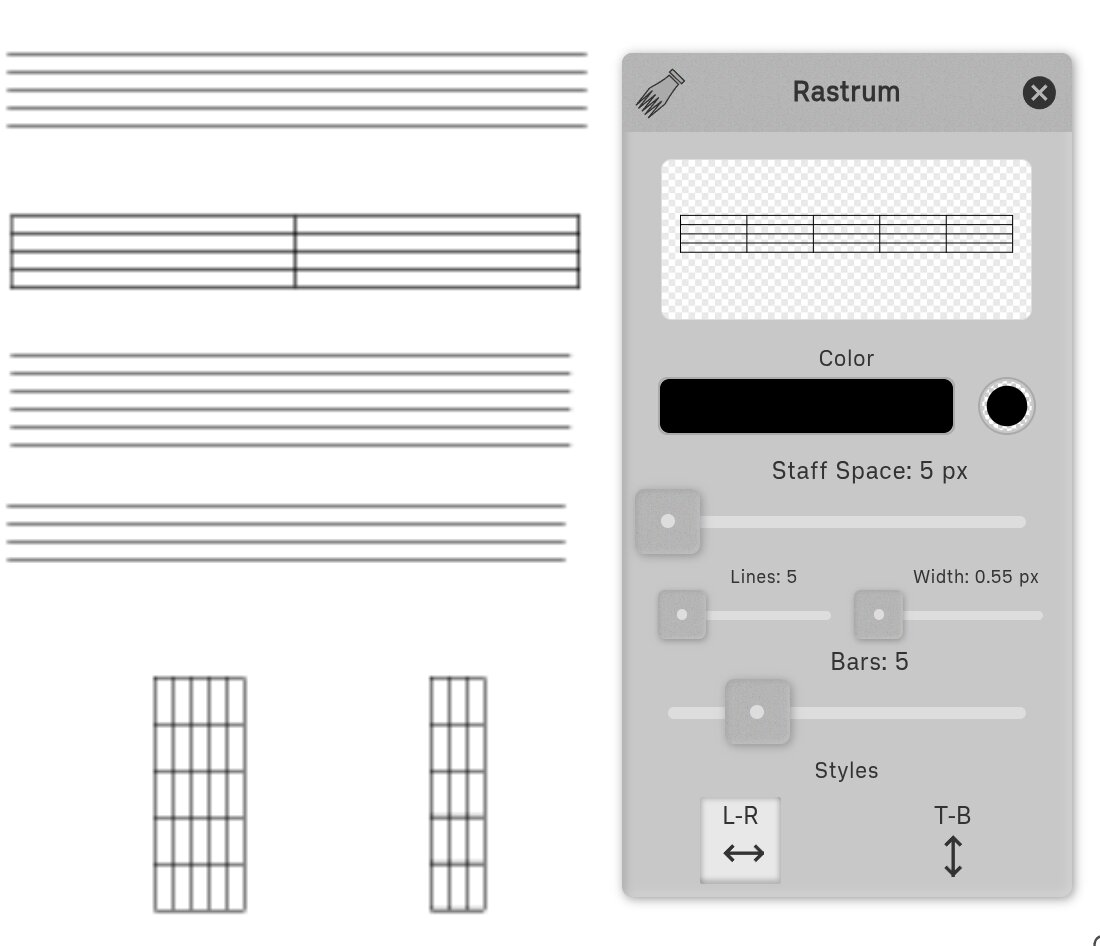
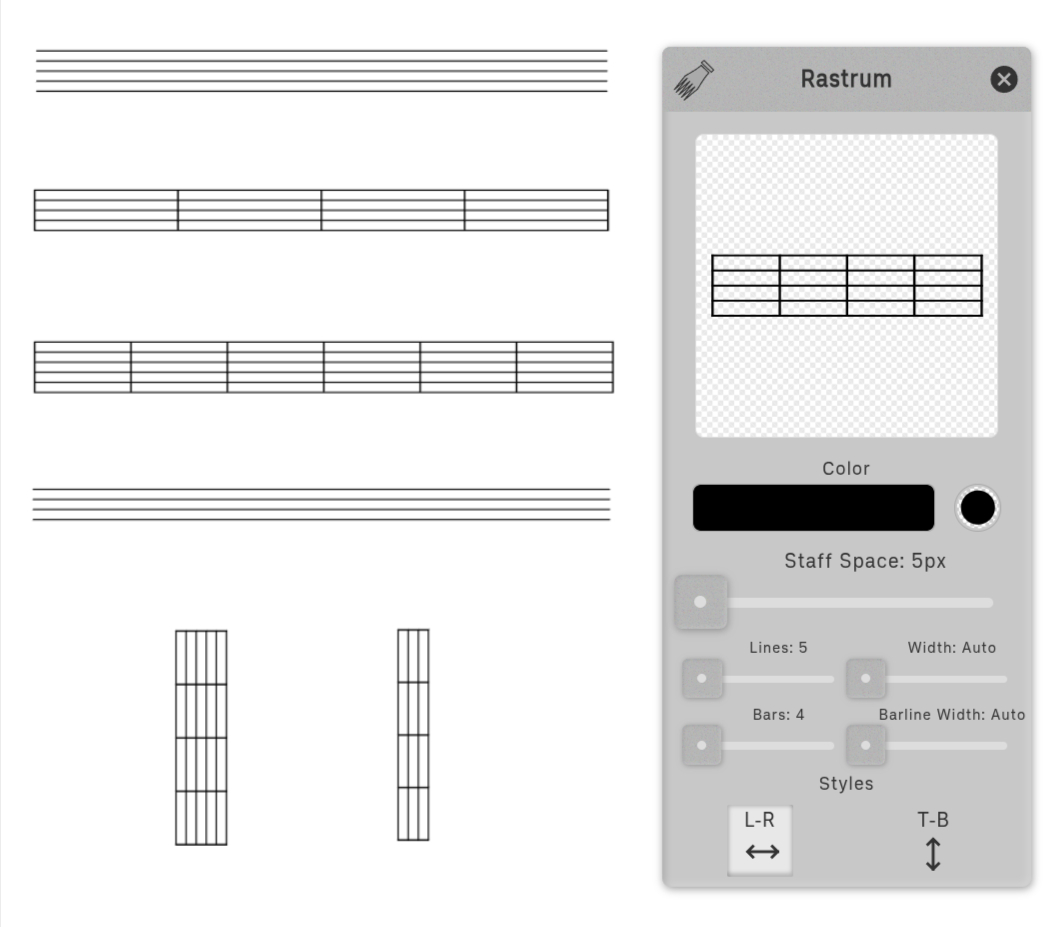
bump

diff --git a/doc/Guidebook.html b/doc/Guidebook.html
@@ -550,7 +550,7 @@ function closeVideo(event, container) {
         <li><strong>Vertical:</strong> Scroll pages top-to-bottom (ideal for smartphones)</li>
         <li><strong>Table:</strong> See all pages at once in a grid (useful for page management)</li>
     </ul>
-    <p>Tap any layout to activate it. Use two-finger pinch-zoom on the score to resize and reposition.</p>
+    <p>Tap any layout cell to activate the layout. Drag out from the cell to open a configuration panel. Use two-finger pinch-zoom on the score to resize and reposition.</p>
 
     <figure>
         <div class="video-container" onclick="playVideo(this)">
@@ -583,7 +583,7 @@ function closeVideo(event, container) {
         <li><strong>Rastrum:</strong> Draw music staves</li>
         <li><strong>Edit:</strong> Move, resize, rotate any annotation</li>
     </ul>
-    <p>Activate any tool, then tap or drag on the score to use it. <strong>Note:</strong> Most Ink tools automatically deactivate after a few seconds of inactivity, so you won't accidentally stay in annotation mode when navigating.</p>
+    <p>Activate any tool, then tap or drag on the score to use it. Configure tools by dragging the corresponding panel from its cell. <strong>Note:</strong> Most Ink tools automatically deactivate after a few seconds of inactivity, so you won't accidentally stay in annotation mode when navigating.</p>
 
     <figure>
         <div class="video-container" onclick="playVideo(this)">
@@ -1352,9 +1352,13 @@ function closeVideo(event, container) {
 
     <p>The tool is used by first touching the page, then dragging to define the rastrum object's length.</p>
 
-    <p>Set the style to L-R or T-B to draw horizontally or vertically. Once drawn, a rastrum object can always be rotated using the Edit tool.</p>
+    <p>Set the style to L-R or T-B to draw horizontally or vertically. The T-B setting is useful for making chord charts for guitar, ukulele, mandolin, and other fretted instruments. Once drawn, a rastrum object can always be rotated using the Edit tool.</p>
 
-    <p><strong>Staff Space:</strong> The staff space panel setting determines the pixel difference between staff lines. Matching this value with the staff space setting in the <a href="#chapter-6-symbols" class="chapter-link">Symbols tool</a> ensures that staves and symbols are correctly sized for each other.</p>
+    <p><strong>Staff Space:</strong> In music typography, a staff space is the standard unit of measurement: the distance from one staff line to the next. All musical elements&mdash;noteheads, rests, clefs, accidentals&mdash;are sized relative to this unit, so that notation scales consistently regardless of the physical size of the staff. A standard notehead, for example, is designed to fill the space between two adjacent lines. The staff space panel setting determines the distance in pixels between staff lines. Matching this value with the staff space setting in the <a href="#chapter-6-symbols" class="chapter-link">Symbols tool</a> ensures that staves and symbols are correctly sized for each other.</p>
+
+    <p><strong>Width:</strong> Sets the thickness of staff lines. Move the slider all the way to the left for Auto, which uses the default recommended thickness for the Bravura font at the current Staff Space value.</p>
+
+    <p><strong>Barline Width:</strong> Sets the thickness of barlines. Move the slider all the way to the left for Auto, which uses the default recommended thickness for the Bravura font at the current Staff Space value.</p>
 
     <div class="note">The Rastrum tool, in combination with <a href="#chapter-6-cut-copy-paste" class="chapter-link">Copy/Paste</a>, the <a href="#chapter-6-grid" class="chapter-link">Grid</a>, and the <a href="#chapter-7-merge" class="chapter-link">Merge operation</a>, can be used to design manuscript paper of arbitrary complexity.</div>
 
@@ -1370,7 +1374,7 @@ function closeVideo(event, container) {
     <p>The Text Panel allows you to configure text properties:</p>
     <ul>
         <li>Set (inter) line height for multi-line text.</li>
-        <li>Choose from standard PDF fonts, plus Vercetti, Bravura, and Patrick Hand fonts.</li>
+        <li>Choose from standard PDF text fonts, plus Vercetti, Bravura, and Patrick Hand fonts.</li>
     </ul>
 
     <h3 id="chapter-6-symbols">6.4 Ink Ring: Symbols</h3>
